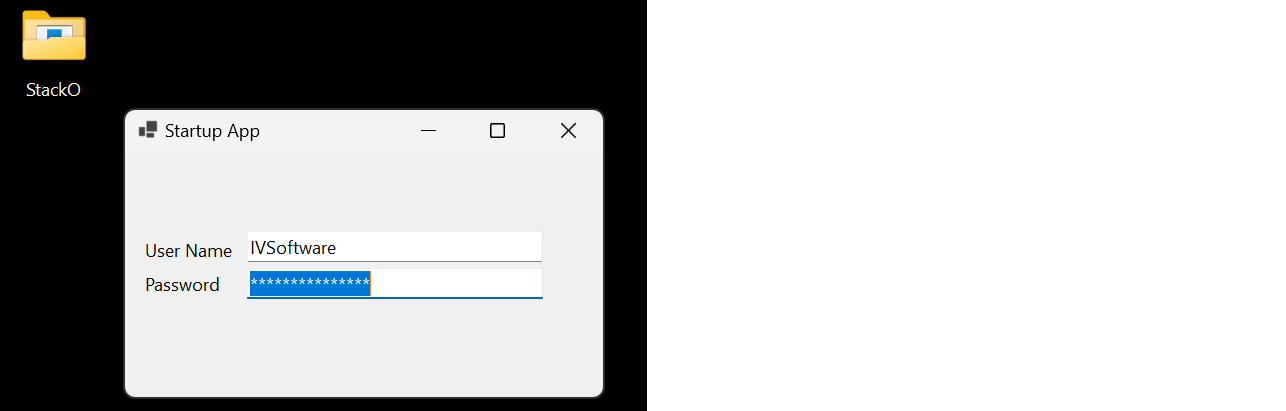
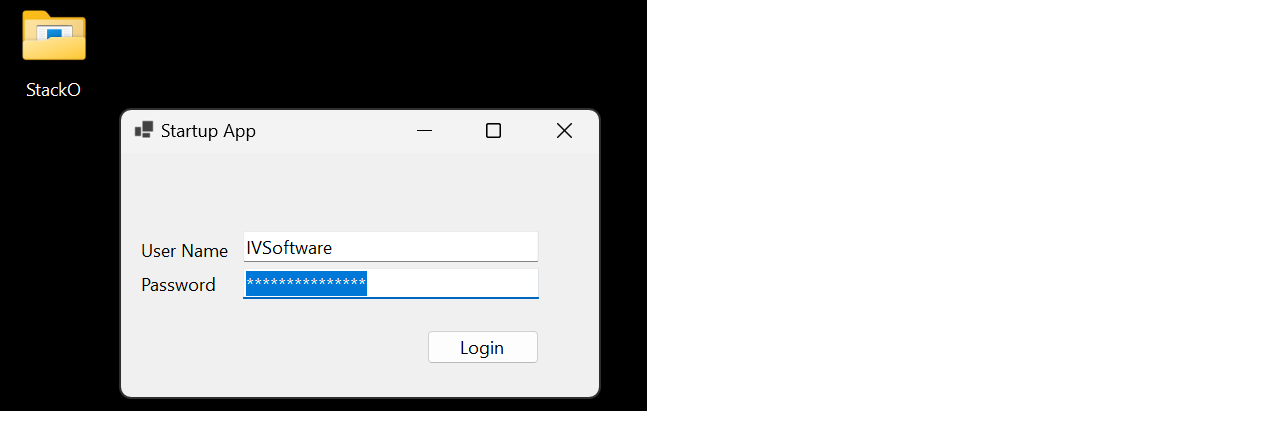
prelim ok SO

diff --git a/startup-app-00/MainForm.cs b/startup-app-00/MainForm.cs
@@ -7,28 +7,20 @@ namespace startup_app_00
             InitializeComponent();
             textBoxLoginUsername.Text = Properties.Settings.Default.dbusername;
             textBoxLoginPassword.Text = Properties.Settings.Default.dbpassword;
-
-            // Commit changes
-            textBoxLoginUsername.KeyDown += TextBoxLoginUsername_KeyDown;
-            textBoxLoginPassword.KeyDown += TextBoxLoginPassword_KeyDown;
+            buttonLogin.Click += onClickLogin;
         }
 
-        private void TextBoxLoginUsername_KeyDown(object? sender, KeyEventArgs e)
+        private void onClickLogin(object? sender, EventArgs e)
         {
-            if(e.KeyData.Equals(Keys.Enter)) 
+            if(tryLoginWithCredentials())
             {
                 Properties.Settings.Default.dbusername = textBoxLoginUsername.Text;
+                Properties.Settings.Default.dbpassword = textBoxLoginUsername.Text;
                 Properties.Settings.Default.Save();
+                Text = $"Logged in as {Properties.Settings.Default.dbusername}";
             }
         }
 
-        private void TextBoxLoginPassword_KeyDown(object? sender, KeyEventArgs e)
-        {
-            if (e.KeyData.Equals(Keys.Enter))
-            {
-                Properties.Settings.Default.dbpassword = textBoxLoginUsername.Text;
-                Properties.Settings.Default.Save();
-            }
-        }
+        private bool tryLoginWithCredentials() => true; // Succeeded (for testing purposes).
     }
 }

diff --git a/README.md b/README.md
@@ -1,27 +1,32 @@
-You show a registry key assignment that is potentially problematic.
+Your code shows a registry key assignment that is potentially problematic.
 
-First, it attempts to set the _default_ value of `HKEY_CURRENT_USER\Software\Microsoft\Windows\CurrentVersion\Run` when it should be making named key for your startup app e.g. 
+First, it attempts to set the _default_ ("") value of
+    `HKEY_CURRENT_USER\Software\Microsoft\Windows\CurrentVersion\Run`
 
-![regedit-annotated]()
+It _should_ be making named key for your startup app e.g. 
 
-Second, it looks like something that might get called in the startup app itself. Microsoft [documentation](https://learn.microsoft.com/en-us/windows/win32/setupapi/run-and-runonce-registry-keys) says don't do that.
+[![regedit-annotated][1]][1]
+
+Second, is it being set in the startup app itself? This is contrary to Microsoft [documentation](https://learn.microsoft.com/en-us/windows/win32/setupapi/run-and-runonce-registry-keys).
 
 >Run and RunOnce Registry Keys - 
 A program that is run from any of these keys should not write to the key during its execution because this will interfere with the execution of other programs registered under the key. Applications should use the RunOnce key only for transient conditions, such as to complete application setup. An application must not continually recreate entries under RunOnce because this will interfere with Windows Setup.
 
 Instead, we'll "do the right thing" by establishing this key in the installer project for the app:
 
-![do-the-right-thing]()
+[![do-the-right-thing][2]][2]
 
 Moving on...
 ***
 **Settings**
 
-Solving the _specific_ question **settings don't appear on windows startup** is impeded by the `string readable = EncryptionHelper.Decrypt(Properties.Settings.Default.dbpassword)` line. The points made by Panagiotis Kanavos are excellent, but notice that we're talking about _that_ now instead of the question you asked. I suggest you solve the main issue _first_ using a [Minimal Reproducible Example](https://stackoverflow.com/help/minimal-reproducible-example) that leaves out the authentication scheme.
+Showing a "mystery line" like:
 
-Looking at the straightforward case of two startup settings:
+`string readable = EncryptionHelper.Decrypt(Properties.Settings.Default.dbpassword)`
 
-![settings]()
+makes it more difficult to diagnose the question that you _actually asked_. The points made by Panagiotis Kanavos are excellent, but notice that we're talking about _that_ now instead of your original ask. I suggest you solve the main issue _first_ using a [Minimal Reproducible Example](https://stackoverflow.com/help/minimal-reproducible-example) that leaves out the authentication scheme. Then we can look at the straightforward case of two startup settings:
+
+[![settings][3]][3]
 
 The textboxes are initialized here:
 
@@ -37,12 +42,44 @@ The textboxes are initialized here:
 
 And after _installing_ the app and restarting the PC we see that things are "so far so good".
 
-![screenshot]()
+[![restart][4]][4]
 
-_So here's the thing...
 ***
+**Things to check**
 
-This goes beyond what your code shows, but this comes from my experience inb these things. It would "make sense" that if you have a default UID and Password then you "probably" have a mechanism for saving changes to these properties. Something like:
+Without seeing more code, I can only make general suggestions.
+
+1. Consider writing a startup log file to your app's AppData folder tracing values at various execution points.
+2. Look for uncaught or "swallowed" exceptions that might skip your textbox initialization code.
+3. Check for race condition where `Properties.Settings.Default.Save()` might be being called before textboxes are initialized.
+4. Since there's "probably" a mechanism for saving login changes, make sure any event handlers are attached _after_ the `InitializeComponents` has run. For example:
+
+*Initializing a Persist scheme*
+
+    public partial class MainForm : Form
+    {
+        public MainForm()
+        {
+            InitializeComponent();
+            textBoxLoginUsername.Text = Properties.Settings.Default.dbusername;
+            textBoxLoginPassword.Text = Properties.Settings.Default.dbpassword;
+            buttonLogin.Click += onClickLogin;
+        }
+        private void onClickLogin(object? sender, EventArgs e)
+        {
+            if(tryLoginWithCredentials())
+            {
+                Properties.Settings.Default.dbusername = textBoxLoginUsername.Text;
+                Properties.Settings.Default.dbpassword = textBoxLoginUsername.Text;
+                Properties.Settings.Default.Save();
+                Text = $"Logged in as {Properties.Settings.Default.dbusername}";
+            }
+        }
+        private bool tryLoginWithCredentials() => true; // Succeeded (for testing purposes).
+    }
 
 
-
+  [1]: https://i.stack.imgur.com/wT7Rz.png
+  [2]: https://i.stack.imgur.com/fQCG3.png
+  [3]: https://i.stack.imgur.com/vQBQG.png
+  [4]: https://i.stack.imgur.com/nTrnM.png
